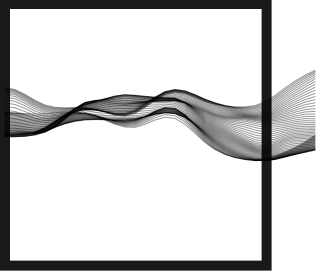
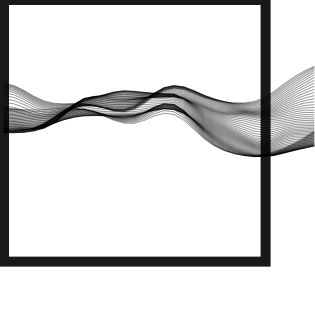
placeholder image projet

Changed region(s): [[0.0, 0.0, 1.0, 1.0]]

diff --git a/src/features/truchet/truchet-node.js b/src/features/truchet/truchet-node.js
@@ -1,5 +1,5 @@
 
-module.exports = async function (slug) {
+module.exports = async function (slug, width, height) {
 
 	const { createCanvas } = require('canvas')
 	const fs = require('fs')
@@ -8,12 +8,11 @@ module.exports = async function (slug) {
 	//@ts-ignore
 	const truchet = require('./truchet-core.ts')
 
-	//const path = 'dist/assets/generatedImages/truchet-' + slug + '.png'
 	const path = 'src/assets/imagesToProcess/truchet-' + slug + '.png'
 
 
 	const tileCanvas = await truchet(
-		createCanvas(480, 320), createCanvas(480, 320), null, 'node')
+		createCanvas(width, height), createCanvas(width, height), { height: height, width: width }, 'node')
 	await pipeline(
 		tileCanvas.createPNGStream({ compressionLevel: 2 }),
 		fs.createWriteStream(path),

diff --git a/src/posts/posts.11tydata.js b/src/posts/posts.11tydata.js
@@ -14,7 +14,7 @@ module.exports = {
       const slug = data.page.fileSlug
       if (data.draft !== true) {
         if (data.hero === undefined || data.hero === {}) {
-          await truchetNode(slug).catch(console.error);
+          await truchetNode(slug, 400, 280).catch(console.error);
           return `truchet-${slug}.png`
         }
         else { return data.hero.image }
